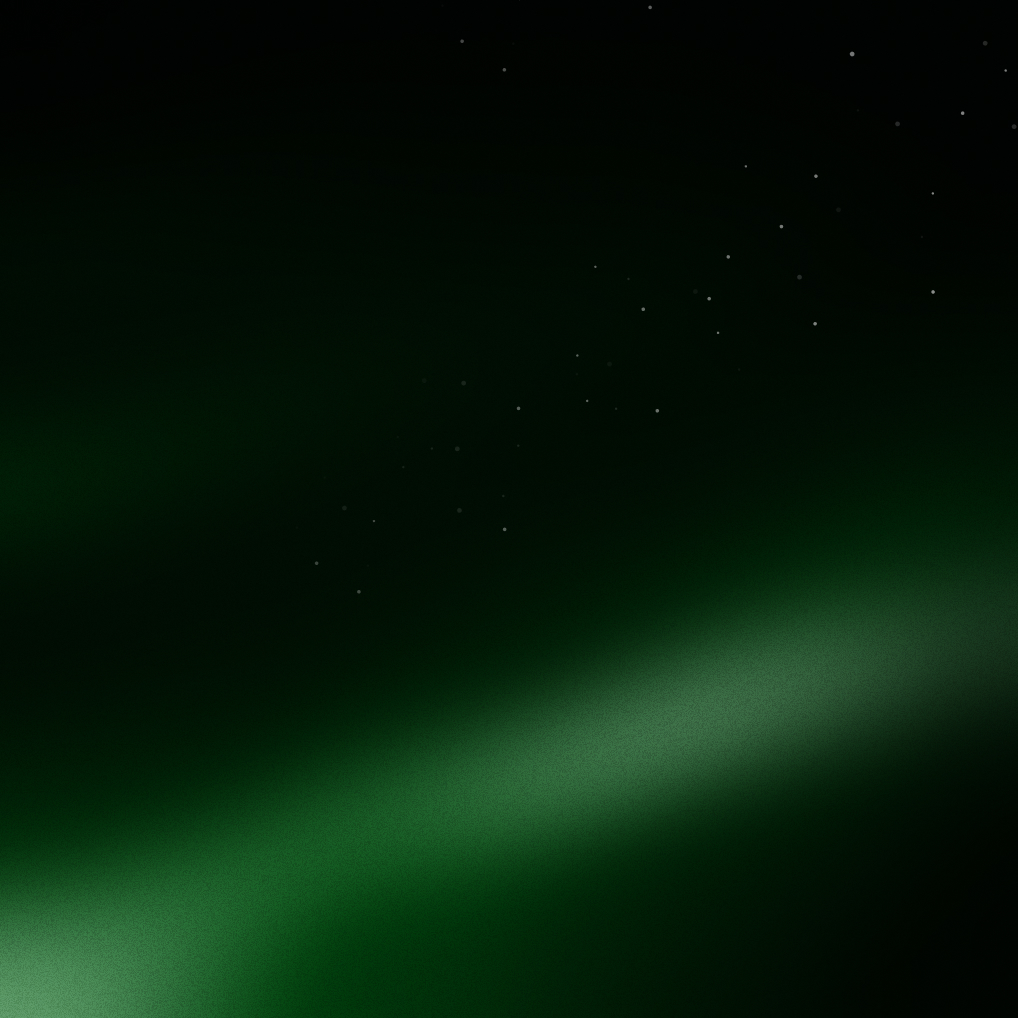
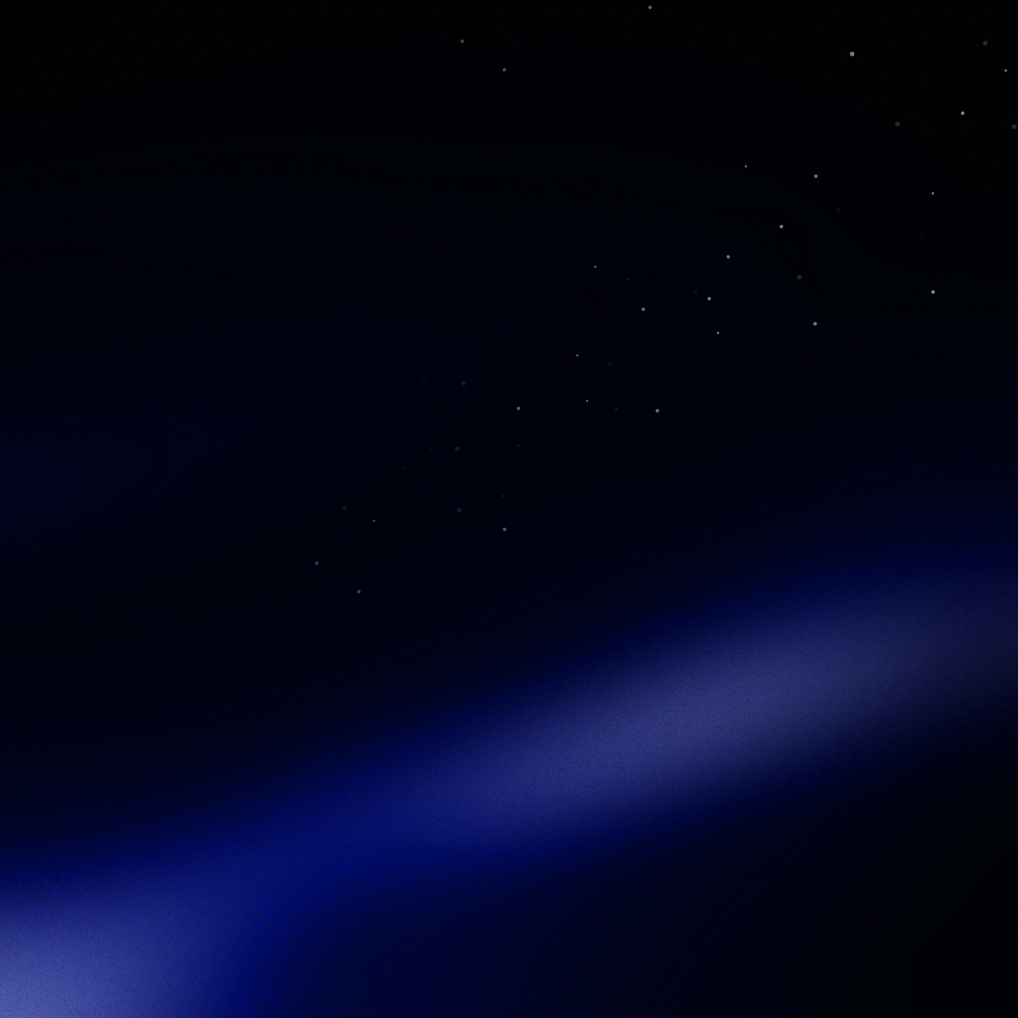
img fixes

Changed region(s): [[0.0, 0.4872, 1.0, 1.0], [0.0, 0.4263, 0.0914, 0.5177]]

diff --git a/index.html b/index.html
@@ -873,7 +873,7 @@
                         <div class="col-left mb-lg-0">
                             <div class="davies-video">
                                 <img src="assets/images/Profile_photo.webp" alt="Oleksandr Kukharyk" style="width: 100%; height: 100%; object-fit: cover; max-height: 666px; aspect-ratio: 0.8;">
-                                <div class="overlay v1"></div>
+                                <div style="position: absolute; bottom: 0; left: 0; right: 0; height: 35%; background: linear-gradient(to top, #000000 0%, rgba(0,0,0,0) 100%); pointer-events: none;"></div>
                             </div>
                         </div>
                     </div>